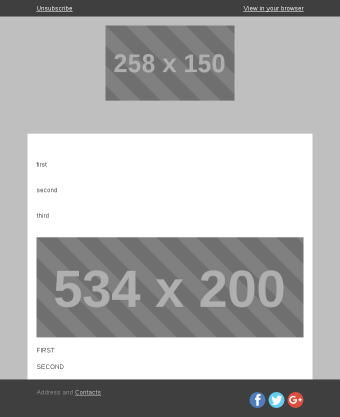
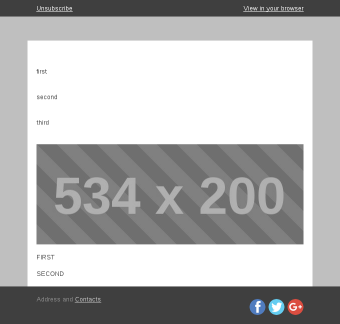
Start/end block in div, preview not working properly

diff --git a/versafix-giga/template-versafix-giga.html b/versafix-giga/template-versafix-giga.html
@@ -139,6 +139,8 @@
 
 /* GIGA BLOCK CONFIG */
       GigaCommentStartBlock { label: Comment Block Start;  theme: contentTheme}
+      GigaCommentDivStartBlock { label: Comment Block Start;  theme: contentTheme}
+      GigaCommentDivEndBlock { label: Comment Block Start;  theme: contentTheme}
 
       GigaCommentEndBlock { label: Comment Block End;  theme: contentTheme}
 
@@ -150,6 +152,8 @@
 /* Previews */
       GigaCommentStartBlock:preview,
       GigaCommentEndBlock:preview,
+      GigaCommentDivStartBlock:preview,
+      GigaCommentDivEndBlock:preview,
       GigaCustomTextBlock:preview,
       GigaCustomImageTextBlock:preview,
 
@@ -404,10 +408,18 @@
 
 
 
+<!-- GigaCommentDivStartBlock -->
+<div data-ko-block="GigaCommentDivStartBlock">
+  <!-- __ITEM_START__ -->
+</div>
+<!-- GigaCommentDivStartBlock -->
 
 
-
-
+<!-- GigaCommentDivEndBlock -->
+<div data-ko-block="GigaCommentDivEndBlock">
+  <!-- __ITEM_END__ -->
+</div>
+<!-- GigaCommentDivEndBlock -->
 
 
   <!-- GigaCommentStartBlock -->
